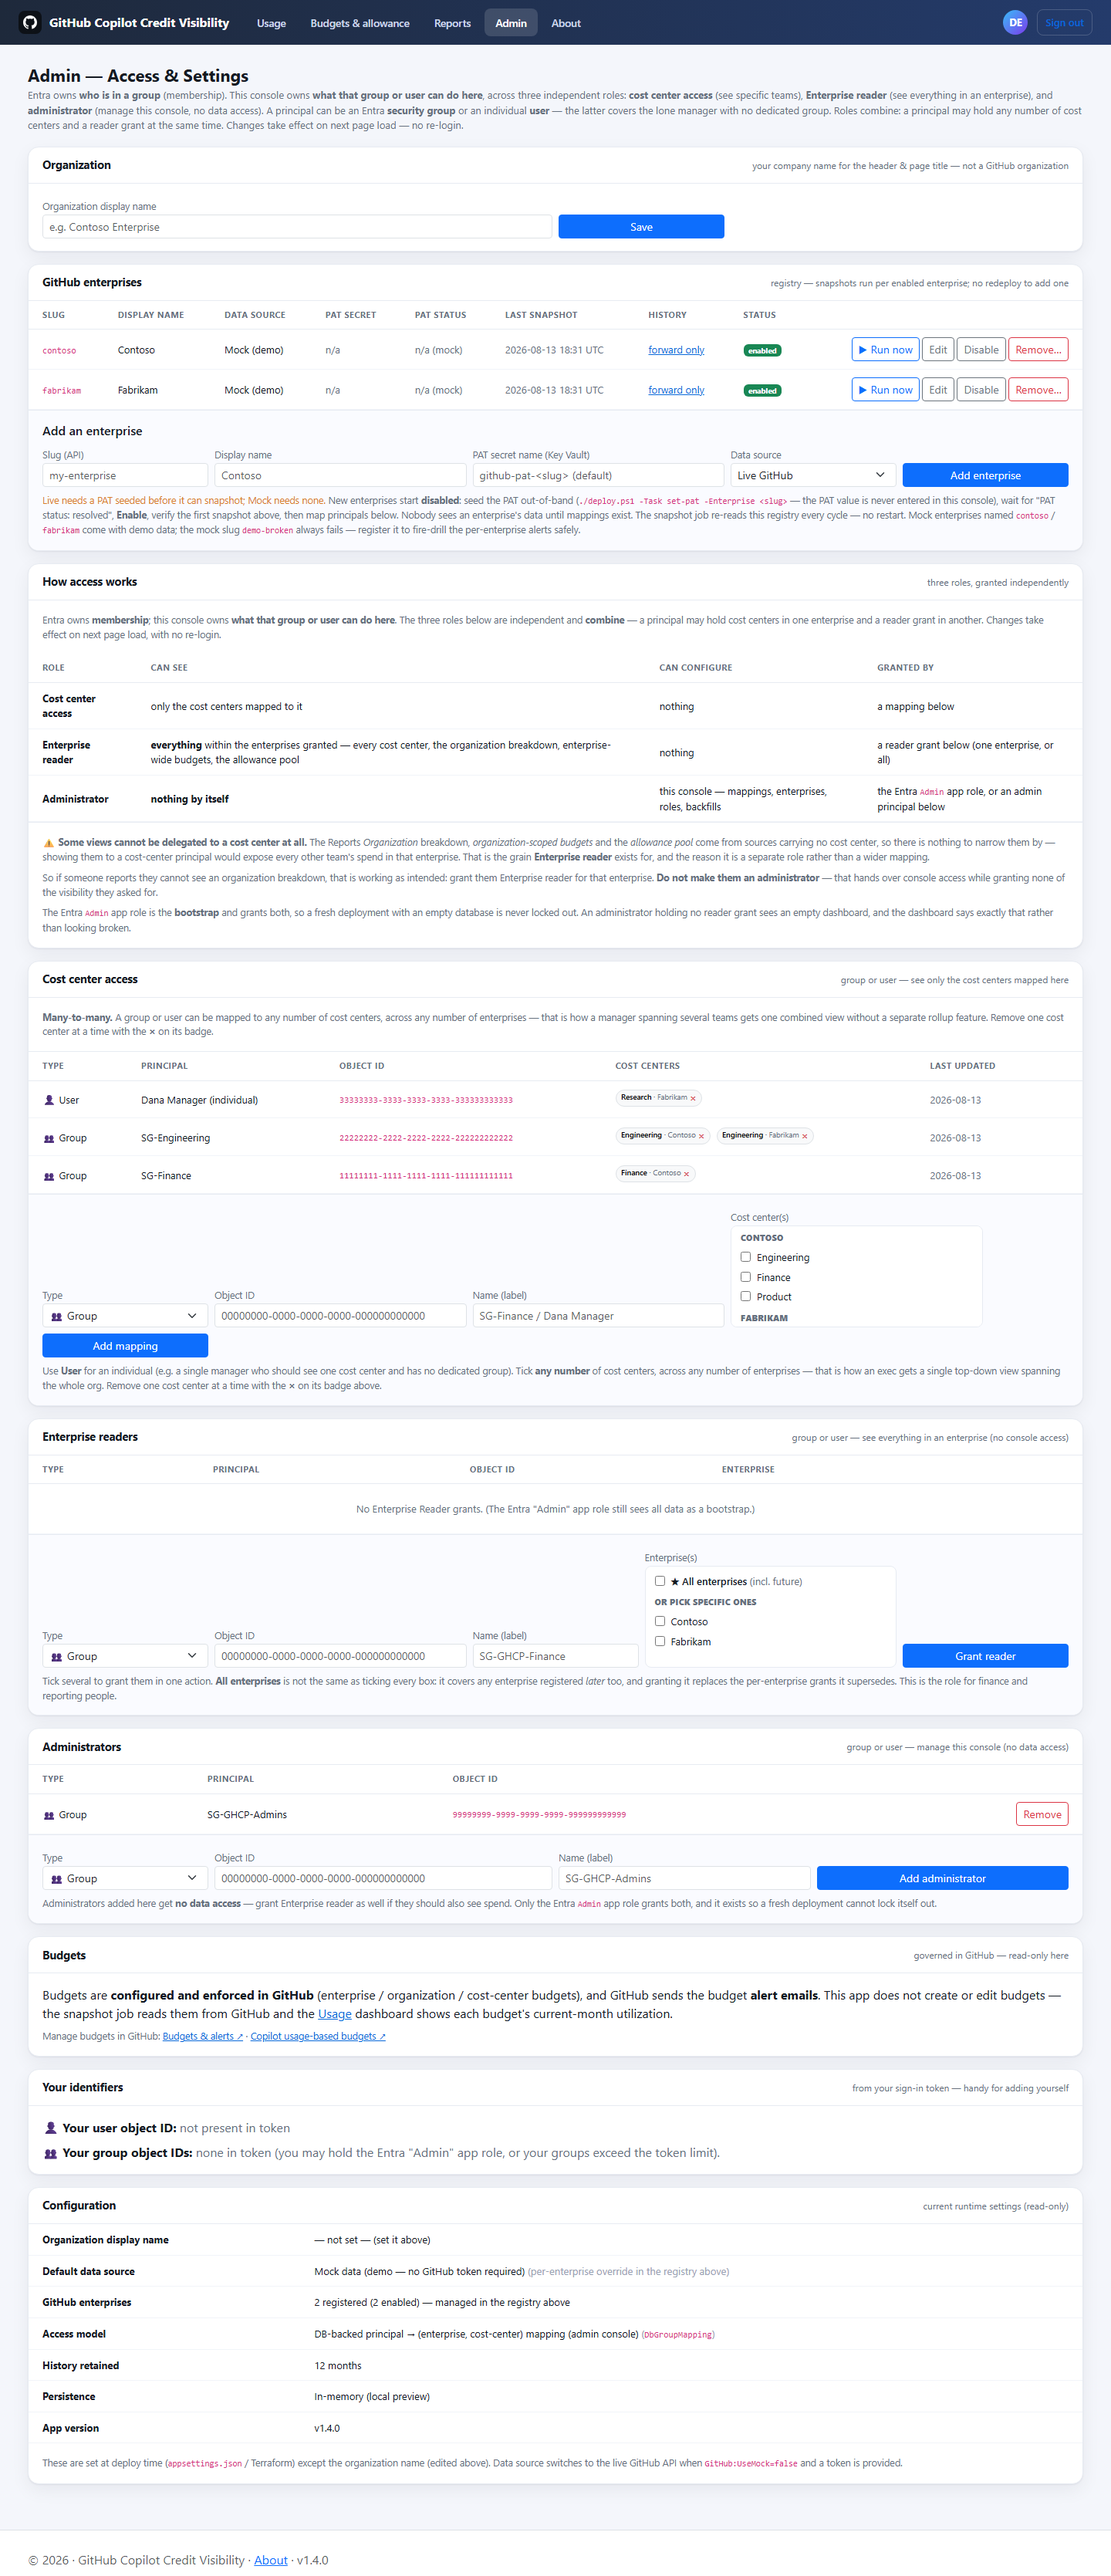
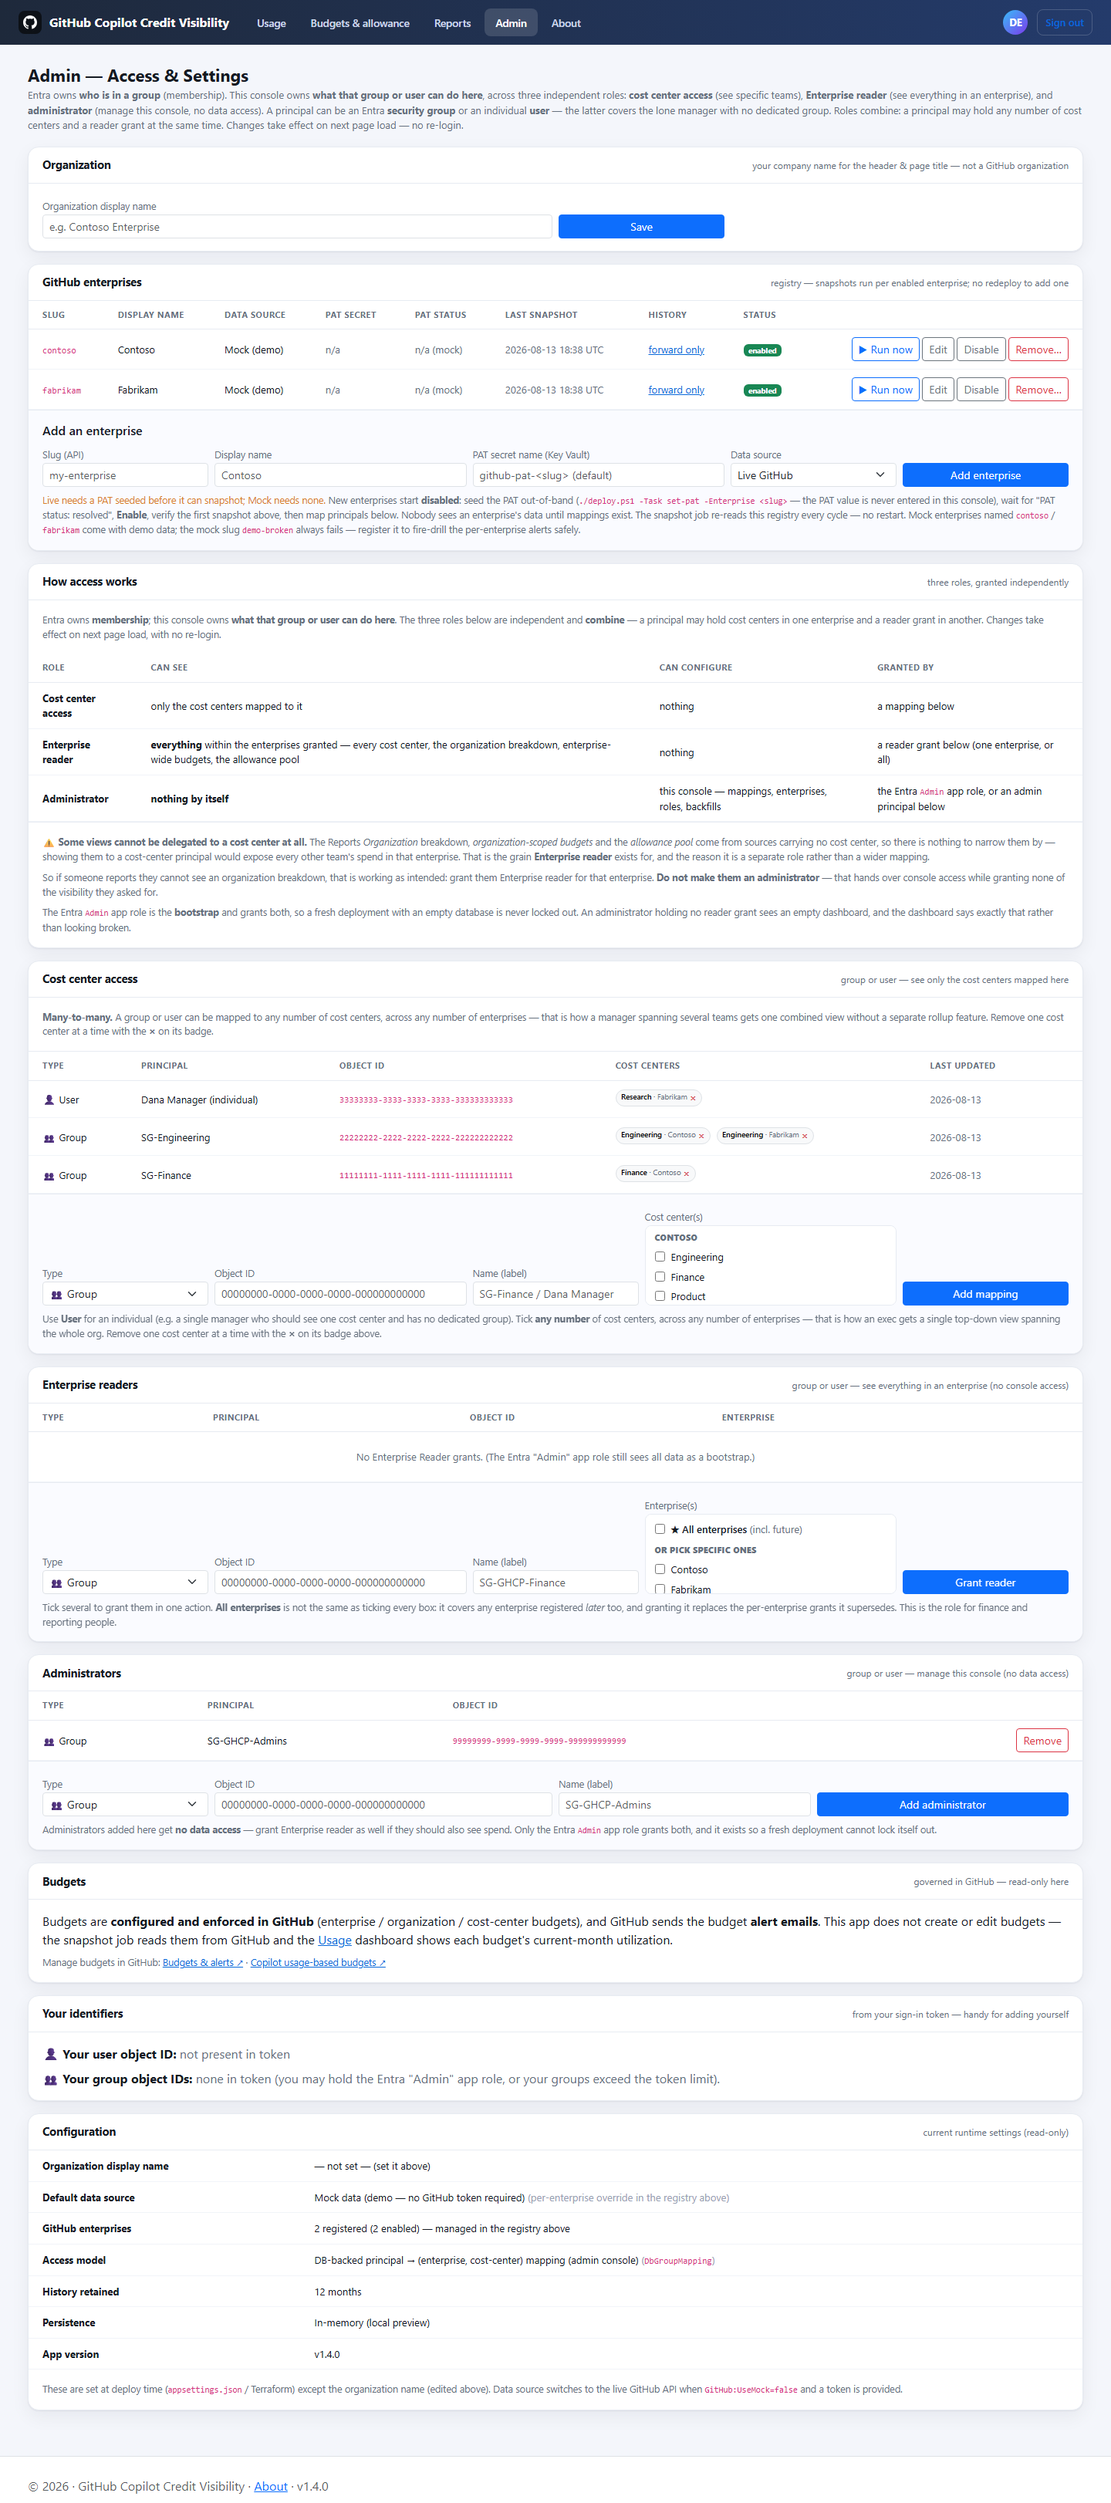
Keep the admin form rows at 12 columns
Widening the cost-center column to fit the new checkbox list took the "add
mapping" row to 13 Bootstrap columns. Bootstrap wraps past 12, so the
submit button dropped onto its own line and the 132px-tall checklist
overlapped the fields above it — visible in the admin screenshot committed
last change, which I captured but never actually looked at.

Name (label) goes back to col-md-2 so the row totals 12, and the checklist
loses a little height so it does not tower over the single-line inputs
beside it in a bottom-aligned row. Both forms now render on one line.

Screenshot recaptured.

diff --git a/GhcpCreditVisibility/wwwroot/css/site.css b/GhcpCreditVisibility/wwwroot/css/site.css
@@ -253,7 +253,9 @@ body { background:var(--gh-bg); color:var(--gh-ink); font-family:'Segoe UI',-app
 /* Checkbox pick-list — replaces <select multiple>, which needs ctrl/cmd-click nobody discovers,
    sizes itself unpredictably, and loses every selection on a mis-click. Fixed height so the form
    layout does not jump around as options are added. */
-.gh-checklist{border:1px solid var(--gh-line);border-radius:8px;background:#fff;height:132px;overflow-y:auto;padding:6px 8px;}
+/* Height is a compromise: tall enough to show several options without scrolling, short enough that
+   it does not tower over the single-line inputs beside it in a bottom-aligned form row. */
+.gh-checklist{border:1px solid var(--gh-line);border-radius:8px;background:#fff;height:104px;overflow-y:auto;padding:6px 8px;}
 .gh-checklist label{display:flex;align-items:center;gap:8px;font-size:13px;font-weight:400;padding:3px 4px;border-radius:4px;cursor:pointer;}
 .gh-checklist label:hover{background:#f4f7fd;}
 .gh-checklist input{margin:0;flex:none;}
